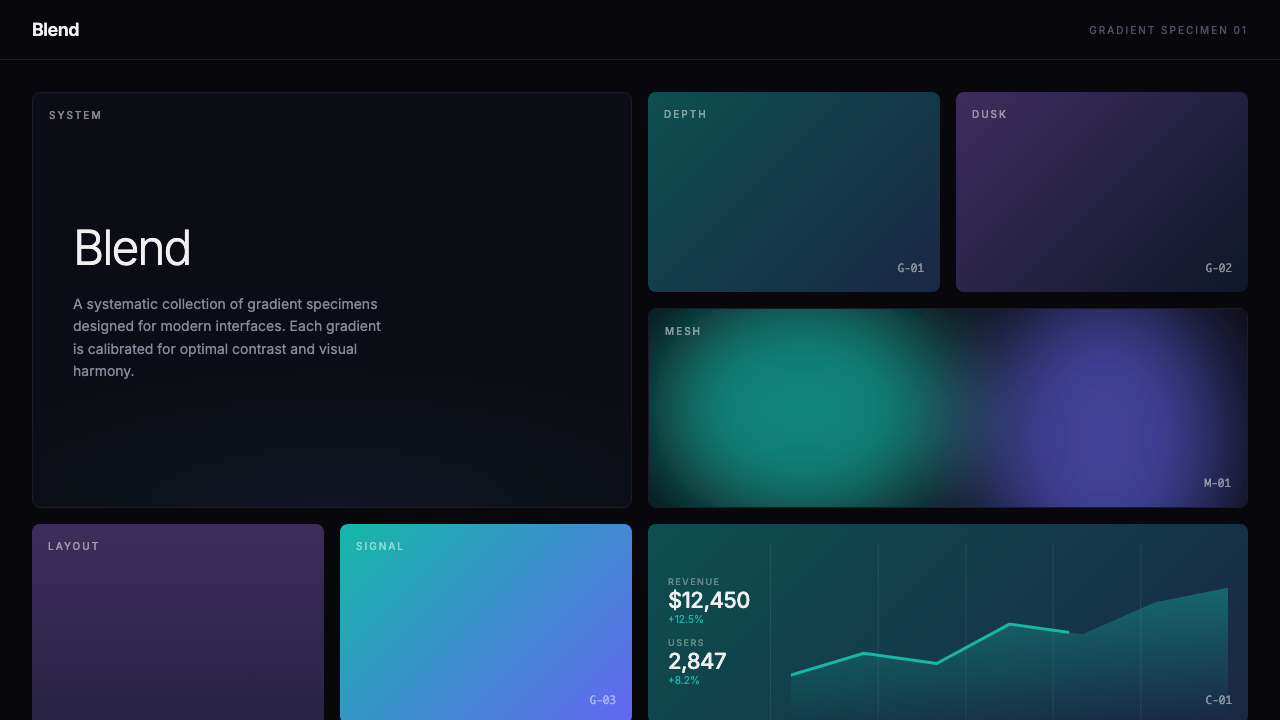
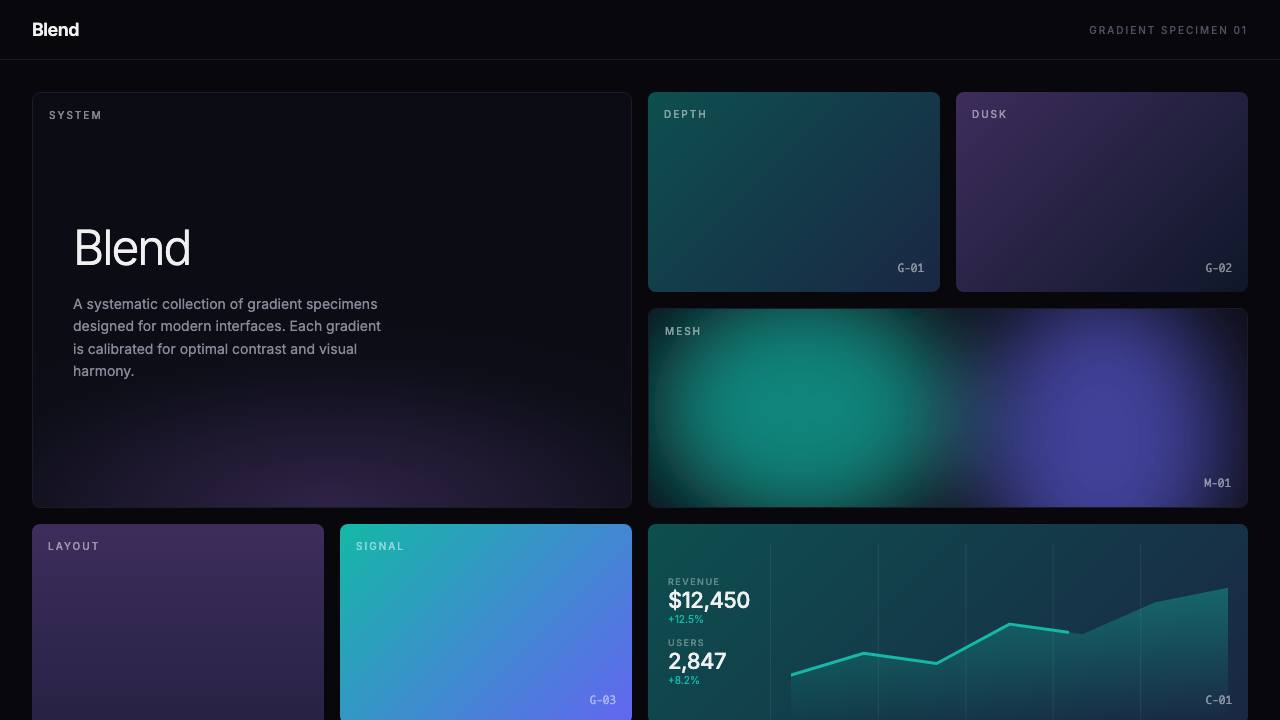
Enhance title card horizon glow effect
Make the radial gradient more prominent on the Blend title card,
using Dusk-inspired purple tones that fade to the dark background
around the "Blend" text level. Creates a more cinematic atmosphere.

Changed region(s): [[0.125, 0.5806, 0.4062, 0.7028]]

diff --git a/2026-01-28-blend/index.html b/2026-01-28-blend/index.html
@@ -126,11 +126,12 @@
             bottom: 0;
             left: 0;
             right: 0;
-            height: 60%;
+            height: 100%;
             background: radial-gradient(
-                ellipse 100% 80% at 50% 100%,
-                rgba(99, 102, 241, 0.08) 0%,
-                rgba(20, 184, 166, 0.04) 30%,
+                ellipse 120% 70% at 50% 100%,
+                rgba(61, 45, 92, 0.7) 0%,
+                rgba(61, 45, 92, 0.4) 25%,
+                rgba(15, 23, 41, 0.2) 50%,
                 transparent 70%
             );
             pointer-events: none;
